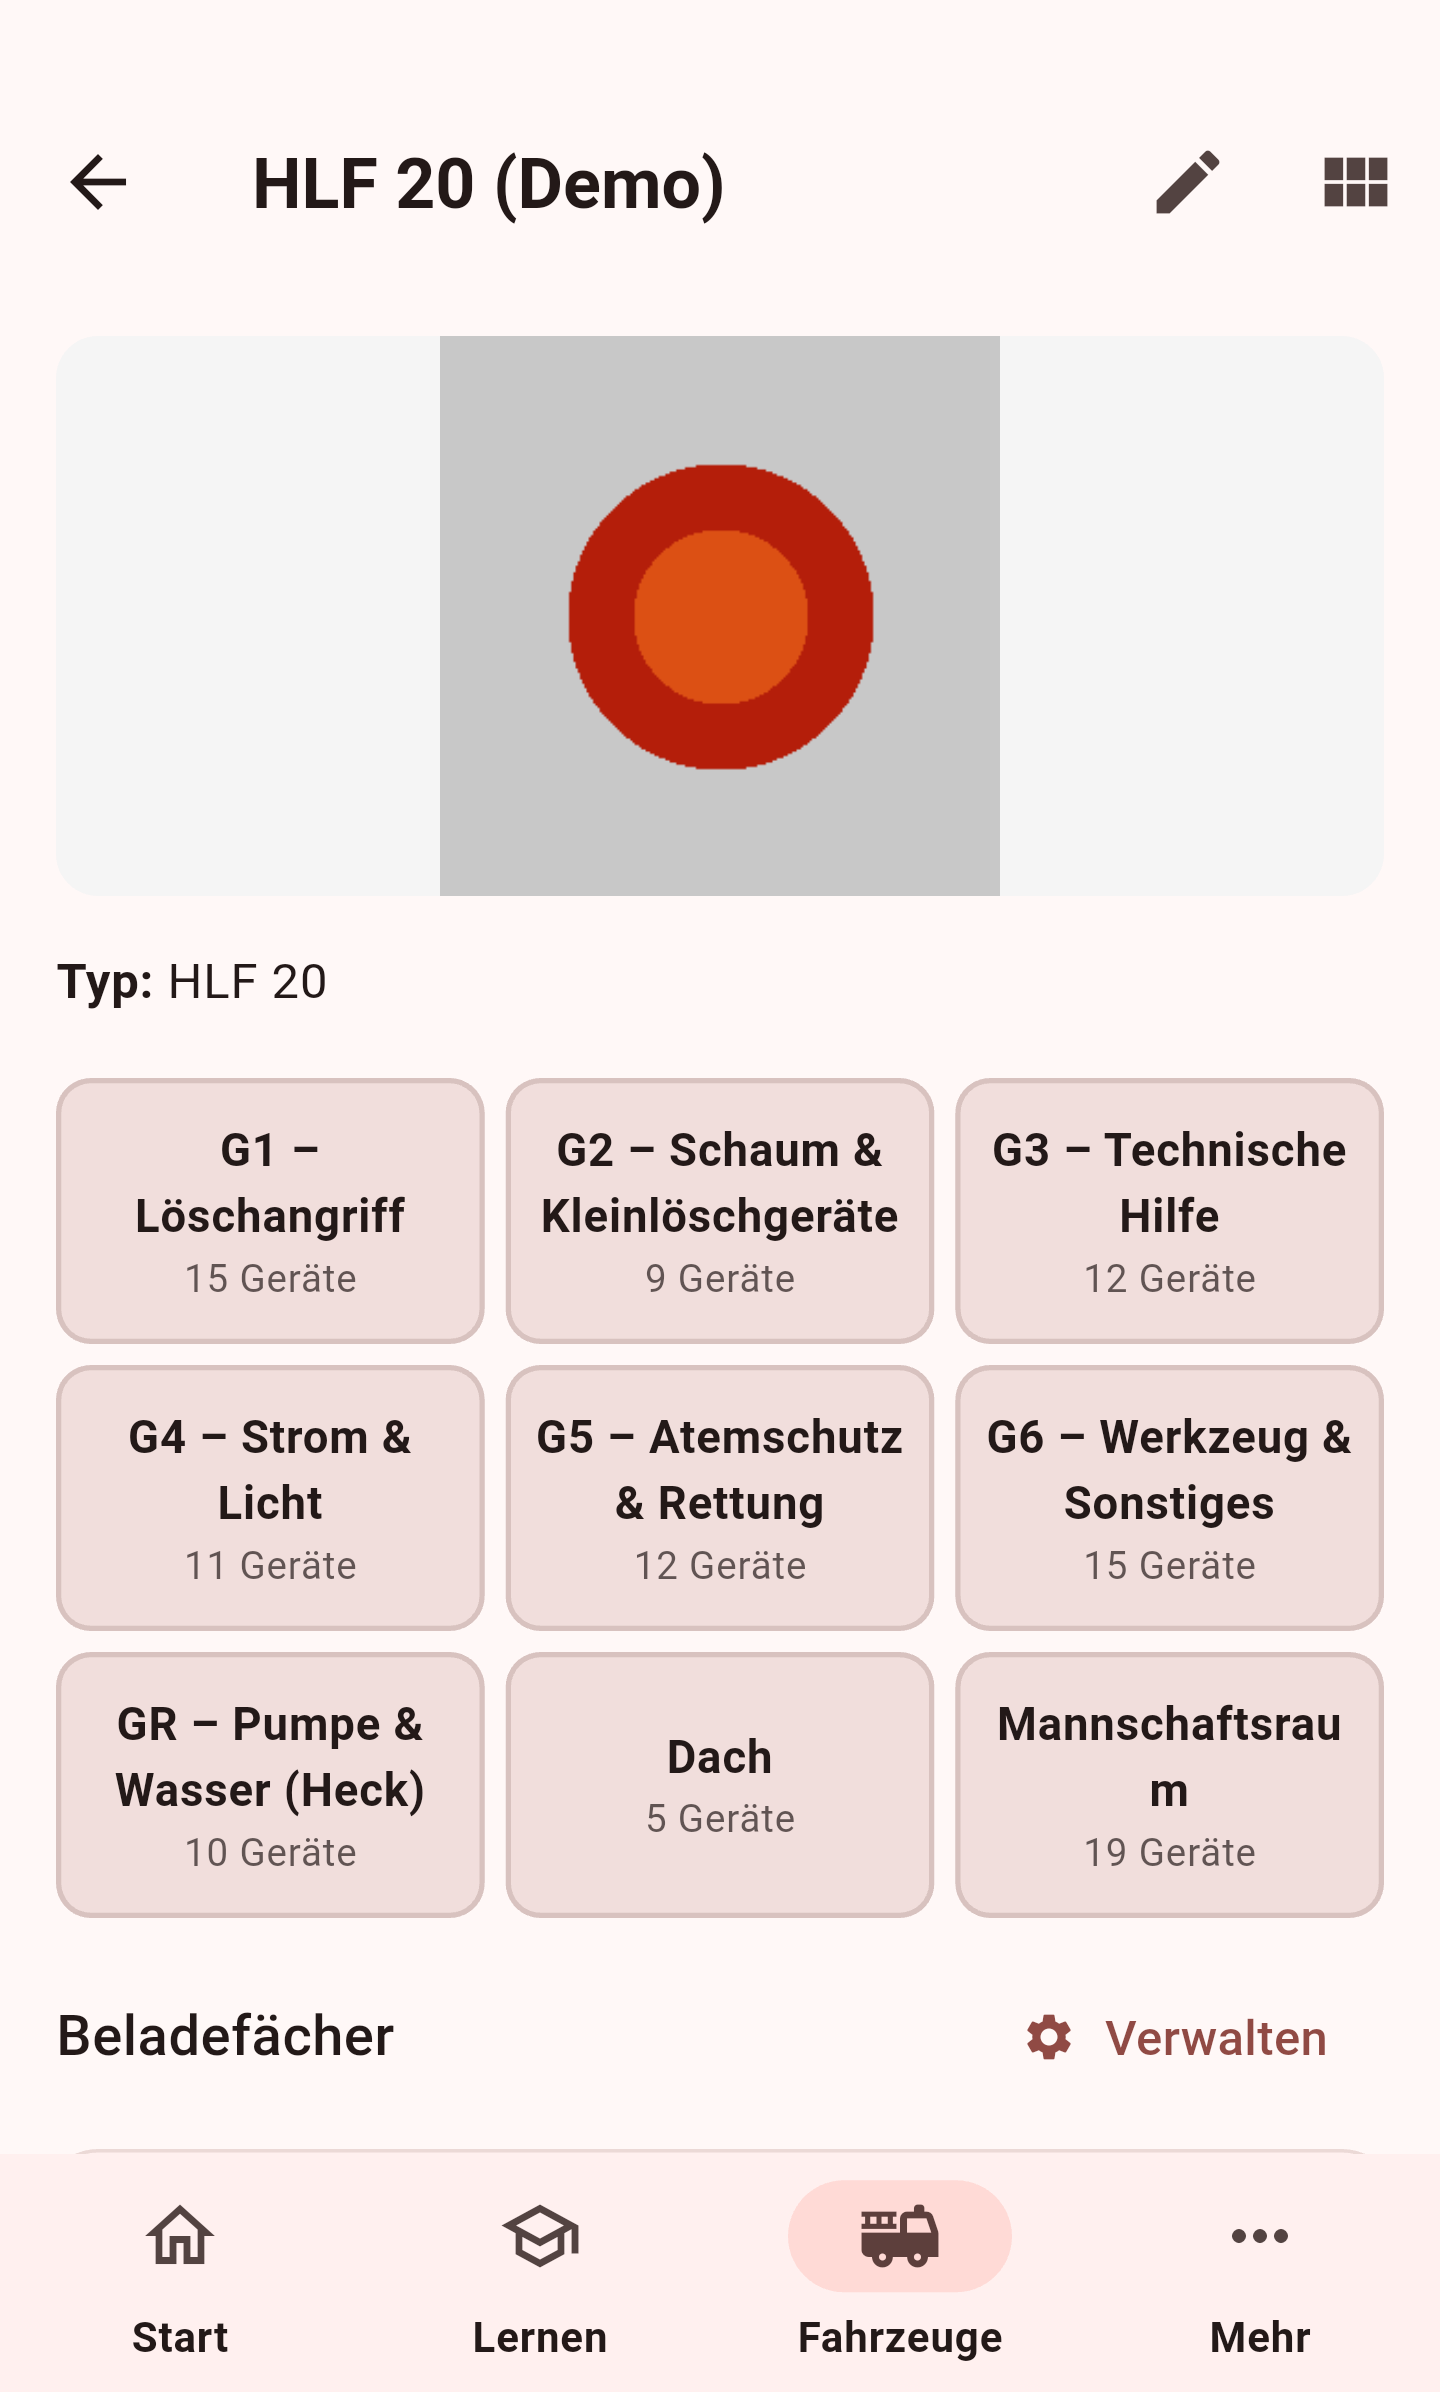
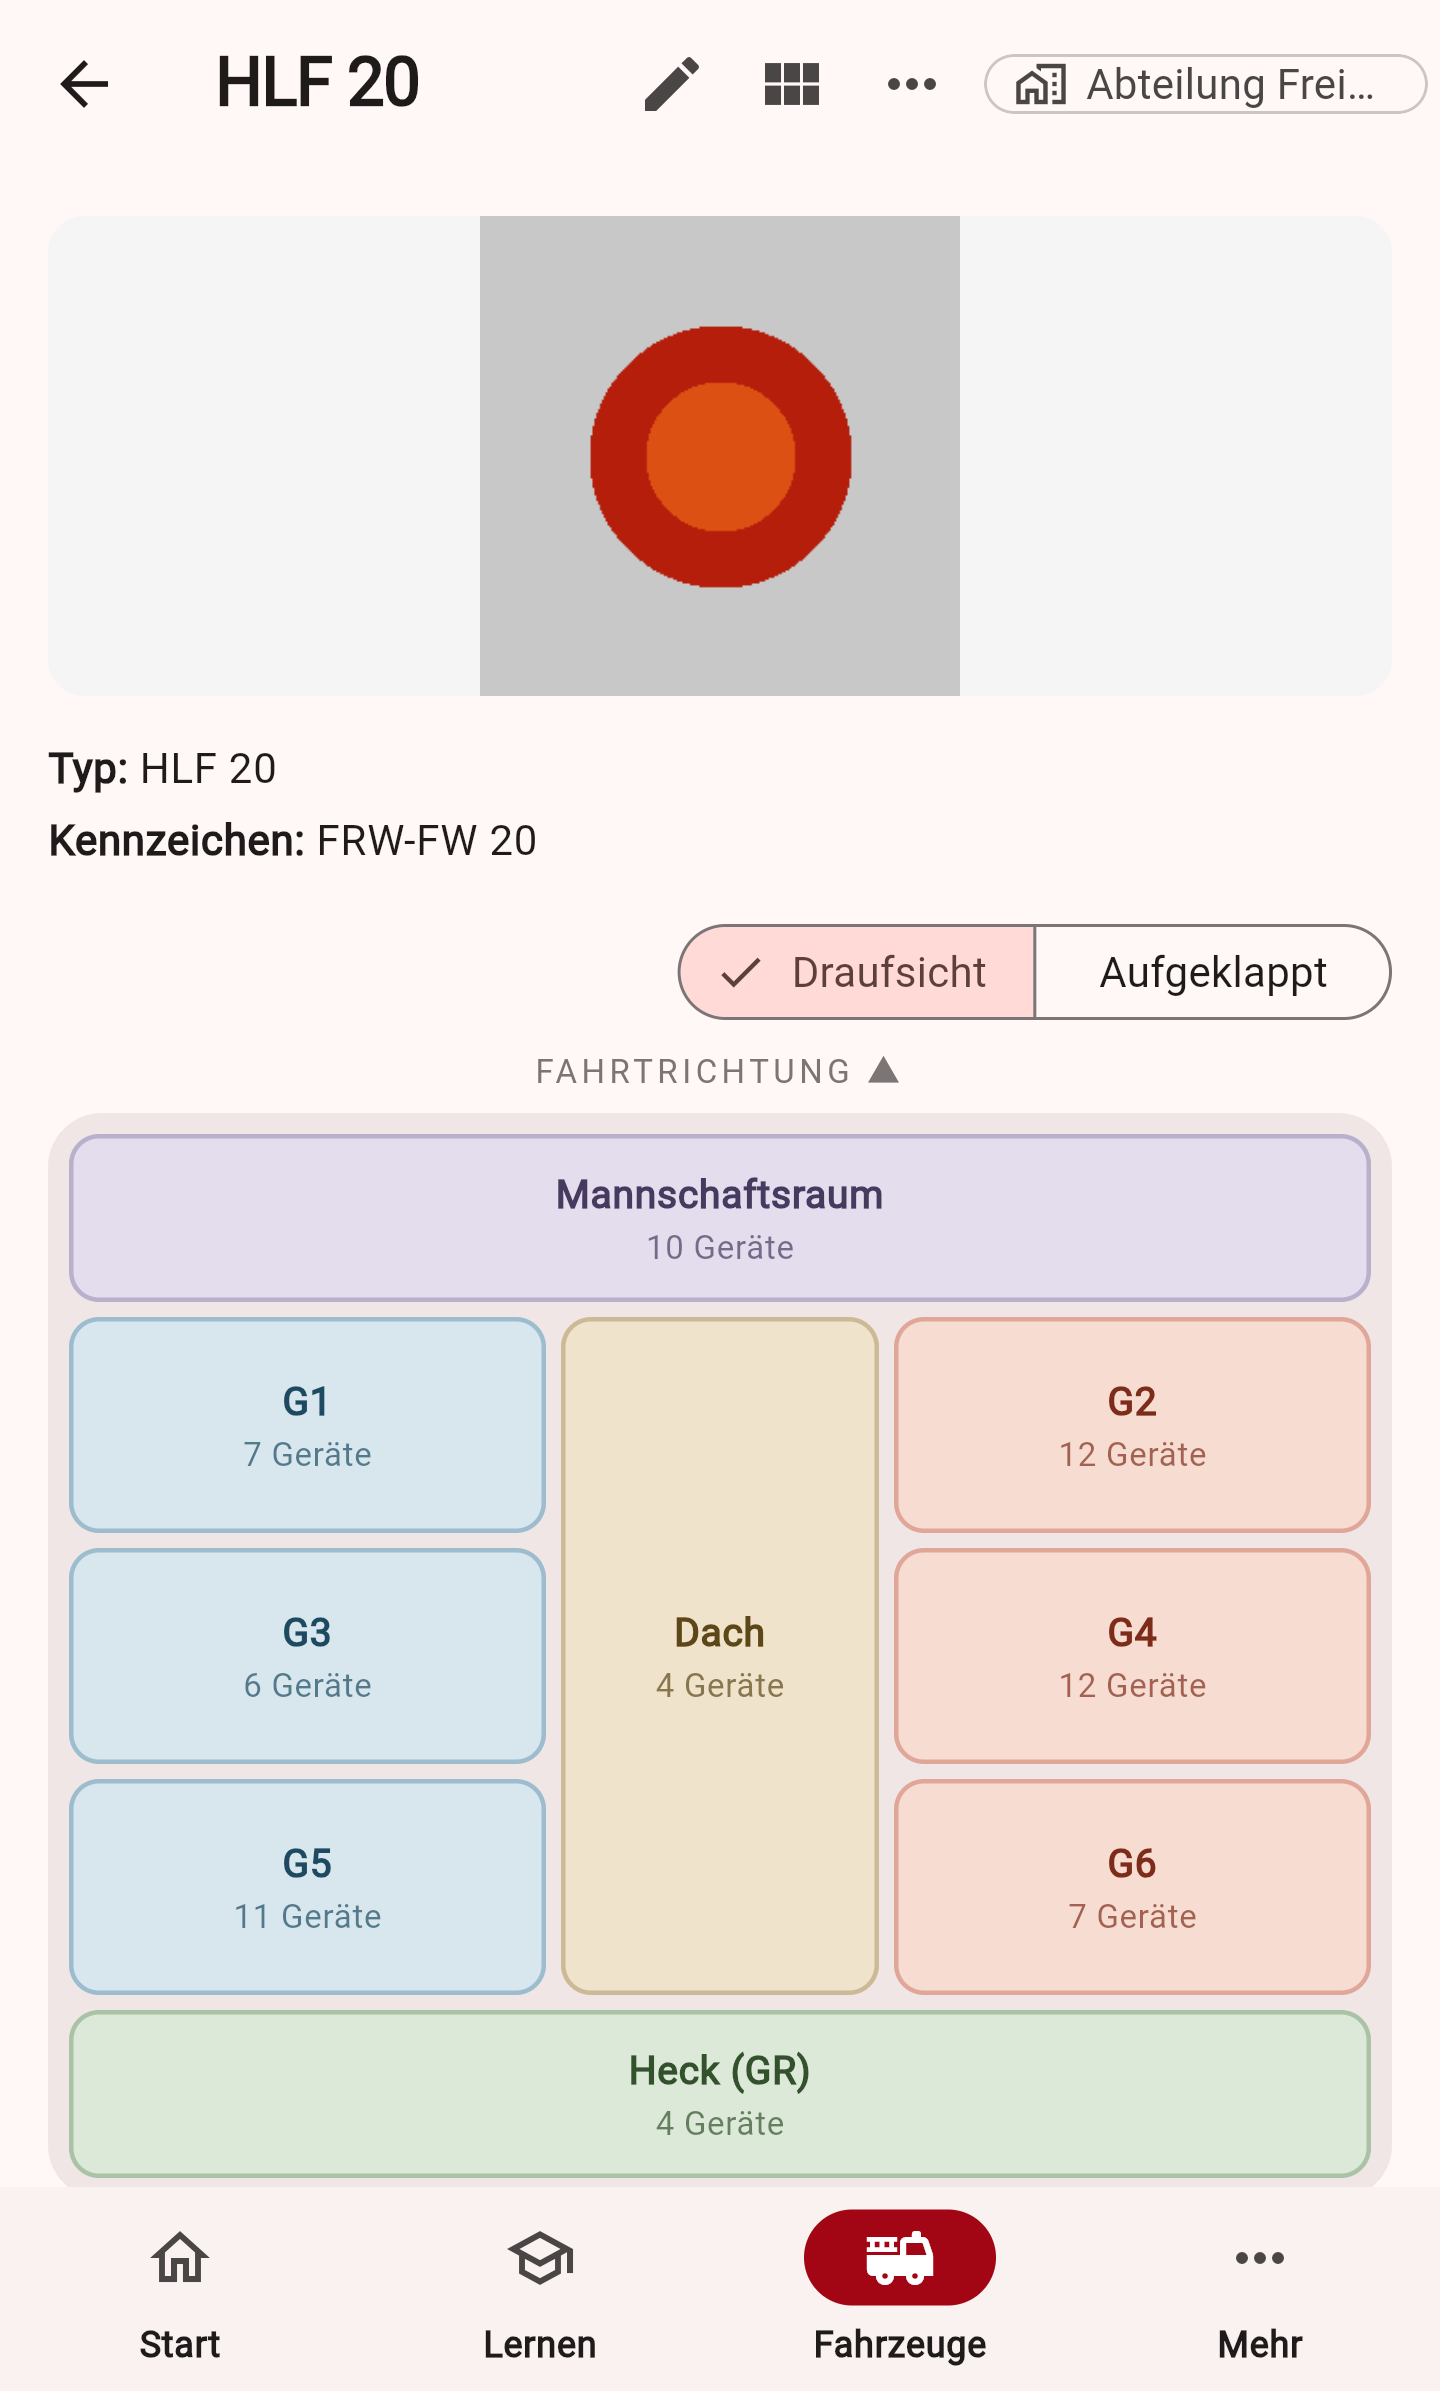
docs: screenshots from the demo brigade, and demo accounts keep only their demo membership (#158) (#162)
* docs: screenshots from the demo brigade (#158)

The three README screenshots were from 21 July and showed the state before
the compartments were located on the vehicle. Retaken from "Feuerwehr
Freiwilligen": the HLF 20 now shows the top view with every Geräteraum on
its side of the vehicle, and the learning screen shows all six modes under
their current names.

* fix: demo accounts keep only their demo membership (#158)

Found by running the suite against the local stack: sync_e2e_test deletes
every Gesamtwehr, the four demo accounts fall back to the legacy Abteilung,
and a second seed run put the demo membership NEXT TO that one instead of
replacing it. Two consequences — the app offered a demo account a foreign
Abteilung to switch to, and the feedback filter stopped working, because it
deliberately spares anyone who is also a member outside the demo.

"Re-runnable" has to mean "reaches the intended state", so the run now
removes foreign memberships and Kommandant rows of those four accounts.

---------

diff --git a/tool/seed_demo_wehr.py b/tool/seed_demo_wehr.py
@@ -197,10 +197,27 @@ def rollen_setzen(benutzer_id, konto, abteilung_id, gesamtwehr_id):
          {"user_id": benutzer_id, "abteilung_id": abteilung_id,
           "role": konto["rolle"]},
          prefer="resolution=merge-duplicates,return=minimal")
+    # ⚠ Fremde Mitgliedschaften dieses Kontos wegräumen. Klingt nach
+    # Übereifer, ist aber der Unterschied zwischen „wiederholbar" und
+    # „erreicht den Sollzustand": Löscht der E2E-Lauf auf dem lokalen Stack
+    # die Demo-Abteilungen, hängen die vier Konten danach in der
+    # Alt-Abteilung — und ein zweiter Lauf legte die Demo-Mitgliedschaft nur
+    # DANEBEN. Zwei Folgen: Die App zeigt dem Demo-Konto eine fremde
+    # Abteilung zur Auswahl, und der Feedback-Filter greift nicht mehr (er
+    # verschont bewusst jeden, der auch ausserhalb der Demo Mitglied ist).
+    # Gilt ausschliesslich für die vier Konten aus demo_wehr.py.
+    rest("DELETE", f"/memberships?user_id=eq.{benutzer_id}"
+                   f"&abteilung_id=neq.{abteilung_id}",
+         prefer="return=minimal")
     if konto["feuerwehrkommandant"]:
         rest("POST", "/gesamtwehr_kommandanten",
              {"user_id": benutzer_id, "gesamtwehr_id": gesamtwehr_id},
              prefer="resolution=merge-duplicates,return=minimal")
+    # Aus demselben Grund: Kommandant der Demo-Gesamtwehr ja, einer fremden nie.
+    rest("DELETE", f"/gesamtwehr_kommandanten?user_id=eq.{benutzer_id}"
+                   + (f"&gesamtwehr_id=neq.{gesamtwehr_id}"
+                      if konto["feuerwehrkommandant"] else ""),
+         prefer="return=minimal")
     # Anzeigename direkt, nicht über mein_profil_setzen(): die RPC schreibt
     # ausschließlich auf auth.uid() — das ist ihre Absicherung, kein Umweg,
     # den man mit dem Service-Key nehmen sollte. Der Avatar bleibt leer; ihn

diff --git a/README.md b/README.md
@@ -14,10 +14,11 @@ können.
 
 | Beladefächer | Lernmodi | Gerätekatalog |
 | --- | --- | --- |
-| ![Fahrzeugdetail mit den neun Beladefächern eines HLF 20 und der Zahl der Geräte je Fach](docs/screenshots/01-beladefaecher.png) | ![Übersicht der sechs Lernmodi: Fach-Quiz, Drag & Drop, Bild-Erkennung, Wo liegt's, Karteikarten und Fahrzeugkunde](docs/screenshots/02-lernen.png) | ![Durchsuchbarer Gerätekatalog mit Piktogrammen, Filtern nach Funktion und Einsatz](docs/screenshots/03-geraetekatalog.png) |
+| ![Draufsicht eines HLF 20: die Geräteräume sitzen auf ihrer Seite des Fahrzeugs, jedes Fach mit der Zahl seiner Geräte](docs/screenshots/01-beladefaecher.png) | ![Übersicht der sechs Lernmodi: Fach-Quiz, Drag & Drop, Bild-Erkennung, Wo liegt's, Geräte-Wissen und Einsatzplanung](docs/screenshots/02-lernen.png) | ![Durchsuchbarer Gerätekatalog mit Piktogrammen, Filtern nach Funktion und Einsatz](docs/screenshots/03-geraetekatalog.png) |
 
-*Screenshots vom Demo-Datenbestand, der der App beiliegt (fiktives HLF 20 +
-110 Normgeräte) – keine echten Wehrdaten.*
+*Screenshots aus der Demo-Wehr „Feuerwehr Freiwilligen“ – einer erfundenen
+Gesamtwehr mit erfundenen Fahrzeugen und der Normbeladung aus den Vorlagen.
+Keine echten Wehrdaten.*
 
 ---
 

diff --git a/docs/BETRIEB.md b/docs/BETRIEB.md
@@ -419,6 +419,10 @@ die Demo gedacht — kaputt vorführen ist erlaubt, Aufräumen ist ein Befehl.
 - ⚠ **Auf dem lokalen Stack nicht vorführen, während Tests laufen:**
   `sync_e2e_test` löscht zwischen seinen Tests alle Gesamtwehren — die Demo
   ist danach weg (und mit einem Skriptlauf wieder da).
+- Der Lauf räumt fremde Mitgliedschaften der vier Demo-Konten ab. Nötig, weil
+  ein E2E-Lauf die Demo-Abteilungen löscht und die Konten danach in der
+  Alt-Abteilung hängen — sonst stünde die Demo-Mitgliedschaft nur daneben,
+  und der Feedback-Filter griffe nicht mehr.
 - ⚠ Neue Konten landen ohne Abteilungs-Metadatum in der **echten** Wehr (so
   ist der Trigger `handle_new_user()` gebaut). Deshalb legt das Skript erst
   die Demo-Abteilungen an und gibt deren ID beim Anlegen mit; Demo-Konten
